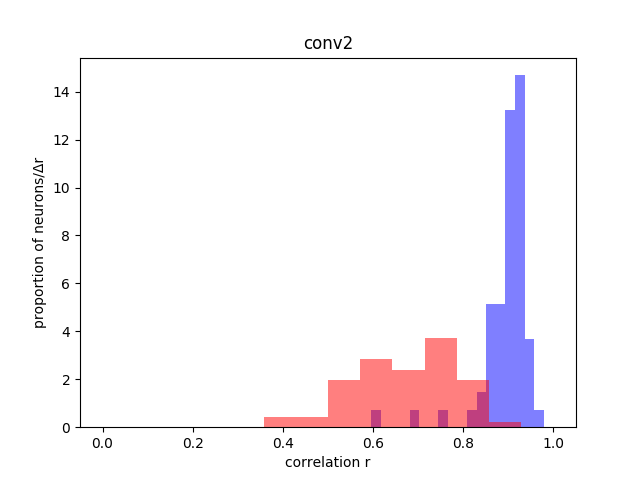
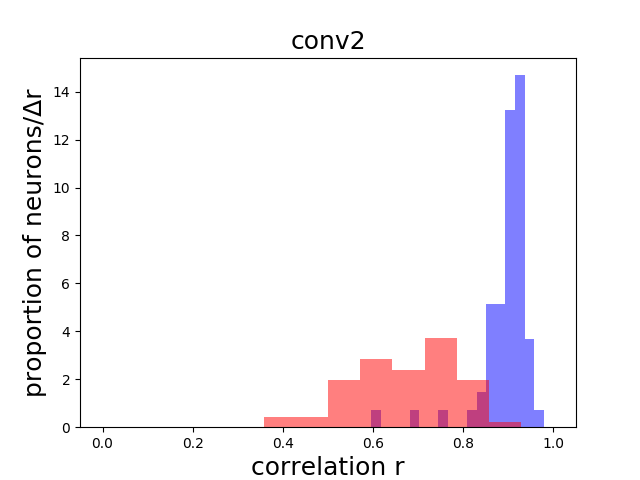
change fontsize

Changed region(s): [[0.0312, 0.1875, 0.0938, 0.8438], [0.375, 0.9375, 0.625, 1.0], [0.4375, 0.0625, 0.5625, 0.125]]

diff --git a/mnist/linear/linear.py b/mnist/linear/linear.py
@@ -85,8 +85,8 @@ for i in range(4):
   co_trd = corrcoef(t0, t1)
   plt.hist(co_trd, bins='auto', range=(0, 1), color='#0000FF80', density=True)
   plt.hist(co_unt, bins='auto', range=(0, 1), color='#FF000080', density=True)
-  plt.xlabel('correlation r')
-  plt.ylabel('proportion of neurons/Δr')
-  plt.title(['conv1', 'conv2', 'fc1', 'fc2'][i])
+  plt.xlabel('correlation r', fontsize=18)
+  plt.ylabel('proportion of neurons/Δr', fontsize=18)
+  plt.title(['conv1', 'conv2', 'fc1', 'fc2'][i], fontsize=18)
   plt.savefig('paper_multi_'+layer+'.png')
   plt.clf()

diff --git a/mnist/correlation/correlation.py b/mnist/correlation/correlation.py
@@ -75,8 +75,8 @@ for i in range(4):
   trd = absmax(getattr(train, layer))
   plt.hist(trd, bins='auto', range=(0, 1), color='#0000FF80', density=True)
   plt.hist(unt, bins='auto', range=(0, 1), color='#FF000080', density=True)
-  plt.xlabel('correlation r')
-  plt.ylabel('proportion of neurons/Δr')
-  plt.title(['conv1', 'conv2', 'fc1', 'fc2'][i])
+  plt.xlabel('correlation r', fontsize=18)
+  plt.ylabel('proportion of neurons/Δr', fontsize=18)
+  plt.title(['conv1', 'conv2', 'fc1', 'fc2'][i], fontsize=18)
   plt.savefig('paper_'+layer+'.png')
   plt.clf()
